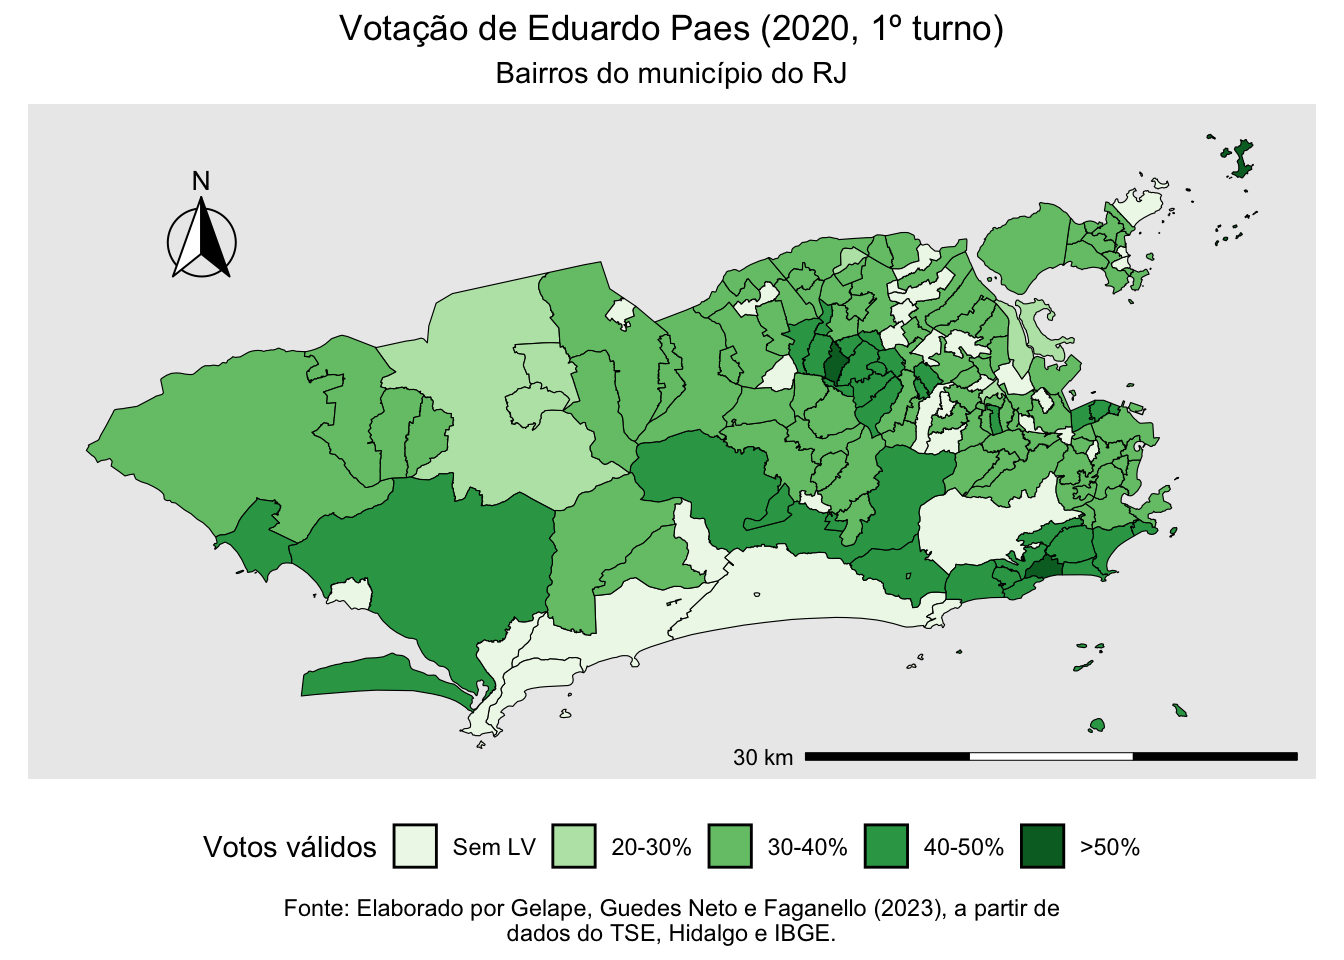
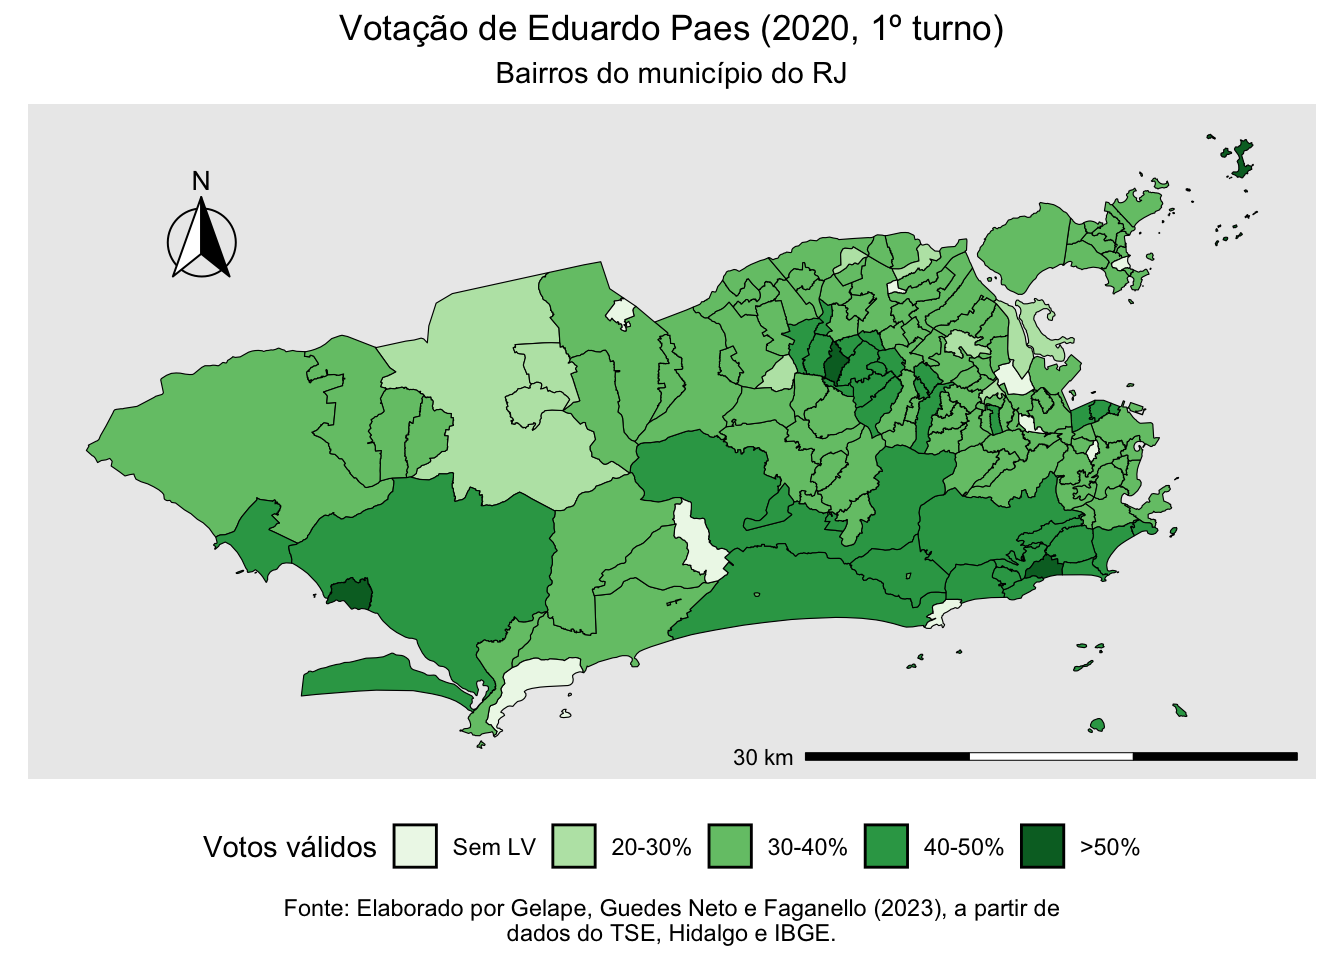
atualiza bookdown
Corrige erros em Eduardo Paes

diff --git a/docs/mapas-municipais.html b/docs/mapas-municipais.html
@@ -141,8 +141,9 @@ code span.wa { color: #60a0b0; font-weight: bold; font-style: italic; } /* Warni
 <li class="divider"></li>
 <li class="chapter" data-level="1" data-path="index.html"><a href="index.html"><i class="fa fa-check"></i><b>1</b> Sobre o Workshop</a>
 <ul>
-<li class="chapter" data-level="1.1" data-path="index.html"><a href="index.html#pré-requisitos"><i class="fa fa-check"></i><b>1.1</b> Pré-Requisitos</a></li>
-<li class="chapter" data-level="1.2" data-path="index.html"><a href="index.html#autores"><i class="fa fa-check"></i><b>1.2</b> Autores</a></li>
+<li class="chapter" data-level="1.1" data-path="index.html"><a href="index.html#informações-básicas"><i class="fa fa-check"></i><b>1.1</b> Informações básicas</a></li>
+<li class="chapter" data-level="1.2" data-path="index.html"><a href="index.html#pré-requisitos"><i class="fa fa-check"></i><b>1.2</b> Pré-Requisitos</a></li>
+<li class="chapter" data-level="1.3" data-path="index.html"><a href="index.html#autores"><i class="fa fa-check"></i><b>1.3</b> Autores</a></li>
 </ul></li>
 <li class="chapter" data-level="2" data-path="meu-primeiro-mapa.html"><a href="meu-primeiro-mapa.html"><i class="fa fa-check"></i><b>2</b> Meu Primeiro Mapa</a>
 <ul>
@@ -232,30 +233,30 @@ code span.wa { color: #60a0b0; font-weight: bold; font-style: italic; } /* Warni
 <p>Para se ter ideia de seu conteúdo, apresentamos sua <code>head</code> abaixo. São 28 colunas (variáveis) e 80.984 linhas (observações) contendo o número de votos que cada um dos três candidatos obteve na eleição de 2020, sendo Boulos para prefeito e os demais para vereador.</p>
 <div class="sourceCode" id="cb13"><pre class="sourceCode r"><code class="sourceCode r"><span id="cb13-1"><a href="mapas-municipais.html#cb13-1" aria-hidden="true" tabindex="-1"></a><span class="fu">head</span>(candsp2020)</span></code></pre></div>
 <pre><code>## # A tibble: 6 × 13
-##   dt_geracao ano_eleicao nr_turno sg_uf nm_municipio cd_municipio nr_zona nr_secao nr_local_votacao ds_cargo nm_votavel
-##   &lt;chr&gt;            &lt;dbl&gt;    &lt;dbl&gt; &lt;chr&gt; &lt;chr&gt;               &lt;dbl&gt;   &lt;dbl&gt;    &lt;dbl&gt;            &lt;dbl&gt; &lt;chr&gt;    &lt;chr&gt;     
-## 1 21/12/2020        2020        1 SP    SÃO PAULO           71072     408      242             1180 Vereador Suplicy   
-## 2 21/12/2020        2020        1 SP    SÃO PAULO           71072     346      408             1309 Vereador Milton Le…
-## 3 21/12/2020        2020        1 SP    SÃO PAULO           71072     346      408             1309 Vereador Holiday   
-## 4 21/12/2020        2020        1 SP    SÃO PAULO           71072     408      255             1198 Vereador Suplicy   
-## 5 21/12/2020        2020        1 SP    SÃO PAULO           71072     408      255             1198 Vereador Holiday   
-## 6 21/12/2020        2020        1 SP    SÃO PAULO           71072     408      255             1198 Prefeito Boulos    
+##   dt_geracao ano_eleicao nr_turno sg_uf nm_municipio cd_municipio nr_zona nr_secao nr_local_votacao ds_cargo nm_votavel  
+##   &lt;chr&gt;            &lt;dbl&gt;    &lt;dbl&gt; &lt;chr&gt; &lt;chr&gt;               &lt;dbl&gt;   &lt;dbl&gt;    &lt;dbl&gt;            &lt;dbl&gt; &lt;chr&gt;    &lt;chr&gt;       
+## 1 21/12/2020        2020        1 SP    SÃO PAULO           71072     408      242             1180 Vereador Suplicy     
+## 2 21/12/2020        2020        1 SP    SÃO PAULO           71072     346      408             1309 Vereador Milton Leite
+## 3 21/12/2020        2020        1 SP    SÃO PAULO           71072     346      408             1309 Vereador Holiday     
+## 4 21/12/2020        2020        1 SP    SÃO PAULO           71072     408      255             1198 Vereador Suplicy     
+## 5 21/12/2020        2020        1 SP    SÃO PAULO           71072     408      255             1198 Vereador Holiday     
+## 6 21/12/2020        2020        1 SP    SÃO PAULO           71072     408      255             1198 Prefeito Boulos      
 ## # ℹ 2 more variables: qt_votos &lt;dbl&gt;, votos_validos_secao &lt;dbl&gt;</code></pre>
 <p>Nosso próximo passo é carregar a base com dados geolocalizados de cada um dos locais de votação no município de São Paulo. Seu nome é <code>lvsp2020.rds</code>.</p>
 <div class="sourceCode" id="cb15"><pre class="sourceCode r"><code class="sourceCode r"><span id="cb15-1"><a href="mapas-municipais.html#cb15-1" aria-hidden="true" tabindex="-1"></a>lvsp2020 <span class="ot">&lt;-</span> <span class="fu">readRDS</span>(<span class="st">&quot;base/lvsp2020.rds&quot;</span>)</span></code></pre></div>
 <p>Ao abrir esta base de dados, você verá o endereço de cada local de votação (por ex., o Colégio Objetivo na Av. Paulista, 900, Bela Vista), acompanhado de sua longitude e latitude, além de outros dados espaciais. A base possui 2.063 observações e 19 variáveis.</p>
 <div class="sourceCode" id="cb16"><pre class="sourceCode r"><code class="sourceCode r"><span id="cb16-1"><a href="mapas-municipais.html#cb16-1" aria-hidden="true" tabindex="-1"></a><span class="fu">head</span>(lvsp2020)</span></code></pre></div>
 <pre><code>## # A tibble: 6 × 19
-##   local_id   ano sg_uf cd_localidade_tse cod_localidade_ibge nr_zona nr_locvot  nr_cep nm_localidade nm_locvot         
-##      &lt;dbl&gt; &lt;dbl&gt; &lt;chr&gt;             &lt;dbl&gt;               &lt;dbl&gt;   &lt;dbl&gt;     &lt;dbl&gt;   &lt;dbl&gt; &lt;chr&gt;         &lt;chr&gt;             
-## 1   678500  2020 SP                71072             3550308       1      1015 1310100 SÃO PAULO     COLÉGIO OBJETIVO  
-## 2   670114  2020 SP                71072             3550308       2      1015 5001000 SÃO PAULO     COLÉGIO DAS AMÉRI…
-## 3   688691  2020 SP                71072             3550308       4      1015 3103000 SÃO PAULO     EE. PROF. ANTONIO…
-## 4   694622  2020 SP                71072             3550308       5      1015 1427001 SÃO PAULO     CLUBE ATLÉTICO PA…
-## 5   696661  2020 SP                71072             3550308       6      1015 4117020 SÃO PAULO     EE. MARECHAL FLOR…
-## 6   674162  2020 SP                71072             3550308     246      1015 4754010 SÃO PAULO     EE. PROF. ALBERTO…
-## # ℹ 9 more variables: ds_endereco &lt;chr&gt;, ds_bairro &lt;chr&gt;, pred_long &lt;dbl&gt;, pred_lat &lt;dbl&gt;, pred_dist &lt;dbl&gt;,
-## #   tse_lat &lt;dbl&gt;, tse_long &lt;dbl&gt;, long &lt;dbl&gt;, lat &lt;dbl&gt;</code></pre>
+##   local_id   ano sg_uf cd_localidade_tse cod_localidade_ibge nr_zona nr_locvot nr_cep nm_localidade nm_locvot ds_endereco
+##      &lt;dbl&gt; &lt;dbl&gt; &lt;chr&gt;             &lt;dbl&gt;               &lt;dbl&gt;   &lt;dbl&gt;     &lt;dbl&gt;  &lt;dbl&gt; &lt;chr&gt;         &lt;chr&gt;     &lt;chr&gt;      
+## 1   678500  2020 SP                71072             3550308       1      1015 1.31e6 SÃO PAULO     COLÉGIO … AV. PAULIS…
+## 2   670114  2020 SP                71072             3550308       2      1015 5.00e6 SÃO PAULO     COLÉGIO … AV. FRANCI…
+## 3   688691  2020 SP                71072             3550308       4      1015 3.10e6 SÃO PAULO     EE. PROF… RUA DA MOÓ…
+## 4   694622  2020 SP                71072             3550308       5      1015 1.43e6 SÃO PAULO     CLUBE AT… RUA ESTADO…
+## 5   696661  2020 SP                71072             3550308       6      1015 4.12e6 SÃO PAULO     EE. MARE… RUA DONA J…
+## 6   674162  2020 SP                71072             3550308     246      1015 4.75e6 SÃO PAULO     EE. PROF… AVENIDA MÁ…
+## # ℹ 8 more variables: ds_bairro &lt;chr&gt;, pred_long &lt;dbl&gt;, pred_lat &lt;dbl&gt;, pred_dist &lt;dbl&gt;, tse_lat &lt;dbl&gt;, tse_long &lt;dbl&gt;,
+## #   long &lt;dbl&gt;, lat &lt;dbl&gt;</code></pre>
 <p>Nosso próximo passo será converter os dados de longitude (<em>long</em>) e latitude (<em>lat</em>) utilizando o pacote <code>sf</code> em um objeto de <em>features espaciais</em>. Isto é importante para compatibilizar a estrutura dos dados com os pacotes e mapas com os quais estamos trabalhando. Mais especificamente, a transformação tem por objetivo utilizar transformar esses dados tabulares em dados espaciais, produzidos com base no sistema de referência de coordenadas (CRS) geográficas SIRGAS 2000. Este passo é padrão para a elaboração da maioria dos mapas brasileiros.</p>
 <div class="sourceCode" id="cb18"><pre class="sourceCode r"><code class="sourceCode r"><span id="cb18-1"><a href="mapas-municipais.html#cb18-1" aria-hidden="true" tabindex="-1"></a>lvsp2020 <span class="ot">&lt;-</span> </span>
 <span id="cb18-2"><a href="mapas-municipais.html#cb18-2" aria-hidden="true" tabindex="-1"></a>  lvsp2020 <span class="sc">|&gt;</span> </span>

diff --git a/docs/atividades-extras.html b/docs/atividades-extras.html
@@ -141,8 +141,9 @@ code span.wa { color: #60a0b0; font-weight: bold; font-style: italic; } /* Warni
 <li class="divider"></li>
 <li class="chapter" data-level="1" data-path="index.html"><a href="index.html"><i class="fa fa-check"></i><b>1</b> Sobre o Workshop</a>
 <ul>
-<li class="chapter" data-level="1.1" data-path="index.html"><a href="index.html#pré-requisitos"><i class="fa fa-check"></i><b>1.1</b> Pré-Requisitos</a></li>
-<li class="chapter" data-level="1.2" data-path="index.html"><a href="index.html#autores"><i class="fa fa-check"></i><b>1.2</b> Autores</a></li>
+<li class="chapter" data-level="1.1" data-path="index.html"><a href="index.html#informações-básicas"><i class="fa fa-check"></i><b>1.1</b> Informações básicas</a></li>
+<li class="chapter" data-level="1.2" data-path="index.html"><a href="index.html#pré-requisitos"><i class="fa fa-check"></i><b>1.2</b> Pré-Requisitos</a></li>
+<li class="chapter" data-level="1.3" data-path="index.html"><a href="index.html#autores"><i class="fa fa-check"></i><b>1.3</b> Autores</a></li>
 </ul></li>
 <li class="chapter" data-level="2" data-path="meu-primeiro-mapa.html"><a href="meu-primeiro-mapa.html"><i class="fa fa-check"></i><b>2</b> Meu Primeiro Mapa</a>
 <ul>
@@ -386,15 +387,23 @@ code span.wa { color: #60a0b0; font-weight: bold; font-style: italic; } /* Warni
 <pre><code>##    Min. 1st Qu.  Median    Mean 3rd Qu.    Max. 
 ##   21.40   33.47   37.40   37.25   40.11   51.86</code></pre>
 <p>Nosso próximo passo será utilizar os mapas do pacote <code>geobr</code> (isto é, seu arquivo shp) para gerar um mapa de bairros mais “limpo” do que o que temos e integrar seus dados ao nosso <em>tibble</em> original.</p>
+<p>Os dados do <code>geobr</code> estão com uma duplicação de bairros. No caso, o mesmo bairro (Marechal Hermes) aparece em duas linhas do objeto espacial, sendo uma tendo como subdistrito Jacarepaguá e outra como Madureira. Para eliminar uma dessas linhas do banco (que duplicaria os votos nessa região ao fazermos o join), consultamos um <a href="https://www.data.rio/datasets/31d845e1c56a49c6a2b0e01420ec83b8">mapa oficial de bairros do município do Rio de Janeiro</a> e verificamos que Marechal Hermes está na Região Administrativa de Madureira, portanto vamos excluir do objeto a linha que se refere a Jacarepaguá.</p>
 <div class="sourceCode" id="cb59"><pre class="sourceCode r"><code class="sourceCode r"><span id="cb59-1"><a href="atividades-extras.html#cb59-1" aria-hidden="true" tabindex="-1"></a><span class="co"># Abre um shp de bairros mais &quot;limpo&quot;</span></span>
 <span id="cb59-2"><a href="atividades-extras.html#cb59-2" aria-hidden="true" tabindex="-1"></a>rj_bairros <span class="ot">&lt;-</span> <span class="fu">read_neighborhood</span>(<span class="at">showProgress =</span> F) <span class="sc">|&gt;</span> </span>
-<span id="cb59-3"><a href="atividades-extras.html#cb59-3" aria-hidden="true" tabindex="-1"></a>  <span class="fu">filter</span>(name_muni <span class="sc">==</span> <span class="st">&quot;Rio De Janeiro&quot;</span>)</span>
-<span id="cb59-4"><a href="atividades-extras.html#cb59-4" aria-hidden="true" tabindex="-1"></a></span>
-<span id="cb59-5"><a href="atividades-extras.html#cb59-5" aria-hidden="true" tabindex="-1"></a><span class="co"># Passa a info de votos pro shp</span></span>
-<span id="cb59-6"><a href="atividades-extras.html#cb59-6" aria-hidden="true" tabindex="-1"></a>rj_bairros_paes <span class="ot">&lt;-</span> rj_bairros <span class="sc">|&gt;</span> </span>
-<span id="cb59-7"><a href="atividades-extras.html#cb59-7" aria-hidden="true" tabindex="-1"></a>  <span class="fu">left_join</span>(paes2020_bairro, </span>
-<span id="cb59-8"><a href="atividades-extras.html#cb59-8" aria-hidden="true" tabindex="-1"></a>            <span class="at">by =</span> <span class="fu">c</span>(<span class="st">&quot;name_neighborhood&quot;</span> <span class="ot">=</span> <span class="st">&quot;NM_BAIRRO&quot;</span>,</span>
-<span id="cb59-9"><a href="atividades-extras.html#cb59-9" aria-hidden="true" tabindex="-1"></a>                   <span class="st">&quot;code_neighborhood&quot;</span> <span class="ot">=</span> <span class="st">&quot;CD_GEOCODB&quot;</span>))</span></code></pre></div>
+<span id="cb59-3"><a href="atividades-extras.html#cb59-3" aria-hidden="true" tabindex="-1"></a>  <span class="co"># Filtra somente o municipio do RJ</span></span>
+<span id="cb59-4"><a href="atividades-extras.html#cb59-4" aria-hidden="true" tabindex="-1"></a>  <span class="fu">filter</span>(name_muni <span class="sc">==</span> <span class="st">&quot;Rio De Janeiro&quot;</span>) <span class="sc">|&gt;</span> </span>
+<span id="cb59-5"><a href="atividades-extras.html#cb59-5" aria-hidden="true" tabindex="-1"></a>  <span class="co"># Cria coluna para identificar qual linha deve ser removida e a remove</span></span>
+<span id="cb59-6"><a href="atividades-extras.html#cb59-6" aria-hidden="true" tabindex="-1"></a>  <span class="fu">mutate</span>(<span class="at">remover =</span> <span class="fu">ifelse</span>(name_neighborhood <span class="sc">==</span> <span class="st">&quot;Marechal Hermes&quot;</span> <span class="sc">&amp;</span> </span>
+<span id="cb59-7"><a href="atividades-extras.html#cb59-7" aria-hidden="true" tabindex="-1"></a>                            name_subdistrict <span class="sc">==</span> <span class="st">&quot;Jacarepaguá&quot;</span>, T, F)) <span class="sc">|&gt;</span> </span>
+<span id="cb59-8"><a href="atividades-extras.html#cb59-8" aria-hidden="true" tabindex="-1"></a>  <span class="fu">filter</span>(<span class="sc">!</span>remover)</span>
+<span id="cb59-9"><a href="atividades-extras.html#cb59-9" aria-hidden="true" tabindex="-1"></a></span>
+<span id="cb59-10"><a href="atividades-extras.html#cb59-10" aria-hidden="true" tabindex="-1"></a><span class="co"># Passa a info de votos pro shp</span></span>
+<span id="cb59-11"><a href="atividades-extras.html#cb59-11" aria-hidden="true" tabindex="-1"></a>rj_bairros_paes <span class="ot">&lt;-</span> rj_bairros <span class="sc">|&gt;</span> </span>
+<span id="cb59-12"><a href="atividades-extras.html#cb59-12" aria-hidden="true" tabindex="-1"></a>  <span class="co"># Faremos o join somente por codigo do bairro, pois caso o fizessemos com o</span></span>
+<span id="cb59-13"><a href="atividades-extras.html#cb59-13" aria-hidden="true" tabindex="-1"></a>  <span class="co"># nome do bairro, teriamos alguns casos sem combinacao exata, e produziriamos</span></span>
+<span id="cb59-14"><a href="atividades-extras.html#cb59-14" aria-hidden="true" tabindex="-1"></a>  <span class="co"># falsos negativos (NA que nao sao NA na prática)</span></span>
+<span id="cb59-15"><a href="atividades-extras.html#cb59-15" aria-hidden="true" tabindex="-1"></a>  <span class="fu">left_join</span>(paes2020_bairro, </span>
+<span id="cb59-16"><a href="atividades-extras.html#cb59-16" aria-hidden="true" tabindex="-1"></a>            <span class="at">by =</span> <span class="fu">c</span>(<span class="st">&quot;code_neighborhood&quot;</span> <span class="ot">=</span> <span class="st">&quot;CD_GEOCODB&quot;</span>))</span></code></pre></div>
 <p>Por fim, utilizamos estas informações para gerar o mapa com uma escala de percentuais que varia de 10 em 10 p.p. como apresentado abaixo na sequência do comando <em>mutate</em>. Note também que as funções do <em>ggplot</em> estão comentadas para te auxiliar na customização dos mapas.</p>
 <div class="sourceCode" id="cb60"><pre class="sourceCode r"><code class="sourceCode r"><span id="cb60-1"><a href="atividades-extras.html#cb60-1" aria-hidden="true" tabindex="-1"></a><span class="co"># A partir do objeto espacial</span></span>
 <span id="cb60-2"><a href="atividades-extras.html#cb60-2" aria-hidden="true" tabindex="-1"></a>rj_bairros_paes  <span class="sc">|&gt;</span> </span>

diff --git a/docs/index.html b/docs/index.html
@@ -53,6 +53,70 @@
 <script src="libs/anchor-sections-1.1.0/anchor-sections.js"></script>
 
 
+<style type="text/css">
+pre > code.sourceCode { white-space: pre; position: relative; }
+pre > code.sourceCode > span { display: inline-block; line-height: 1.25; }
+pre > code.sourceCode > span:empty { height: 1.2em; }
+.sourceCode { overflow: visible; }
+code.sourceCode > span { color: inherit; text-decoration: inherit; }
+pre.sourceCode { margin: 0; }
+@media screen {
+div.sourceCode { overflow: auto; }
+}
+@media print {
+pre > code.sourceCode { white-space: pre-wrap; }
+pre > code.sourceCode > span { text-indent: -5em; padding-left: 5em; }
+}
+pre.numberSource code
+  { counter-reset: source-line 0; }
+pre.numberSource code > span
+  { position: relative; left: -4em; counter-increment: source-line; }
+pre.numberSource code > span > a:first-child::before
+  { content: counter(source-line);
+    position: relative; left: -1em; text-align: right; vertical-align: baseline;
+    border: none; display: inline-block;
+    -webkit-touch-callout: none; -webkit-user-select: none;
+    -khtml-user-select: none; -moz-user-select: none;
+    -ms-user-select: none; user-select: none;
+    padding: 0 4px; width: 4em;
+    color: #aaaaaa;
+  }
+pre.numberSource { margin-left: 3em; border-left: 1px solid #aaaaaa;  padding-left: 4px; }
+div.sourceCode
+  {   }
+@media screen {
+pre > code.sourceCode > span > a:first-child::before { text-decoration: underline; }
+}
+code span.al { color: #ff0000; font-weight: bold; } /* Alert */
+code span.an { color: #60a0b0; font-weight: bold; font-style: italic; } /* Annotation */
+code span.at { color: #7d9029; } /* Attribute */
+code span.bn { color: #40a070; } /* BaseN */
+code span.bu { color: #008000; } /* BuiltIn */
+code span.cf { color: #007020; font-weight: bold; } /* ControlFlow */
+code span.ch { color: #4070a0; } /* Char */
+code span.cn { color: #880000; } /* Constant */
+code span.co { color: #60a0b0; font-style: italic; } /* Comment */
+code span.cv { color: #60a0b0; font-weight: bold; font-style: italic; } /* CommentVar */
+code span.do { color: #ba2121; font-style: italic; } /* Documentation */
+code span.dt { color: #902000; } /* DataType */
+code span.dv { color: #40a070; } /* DecVal */
+code span.er { color: #ff0000; font-weight: bold; } /* Error */
+code span.ex { } /* Extension */
+code span.fl { color: #40a070; } /* Float */
+code span.fu { color: #06287e; } /* Function */
+code span.im { color: #008000; font-weight: bold; } /* Import */
+code span.in { color: #60a0b0; font-weight: bold; font-style: italic; } /* Information */
+code span.kw { color: #007020; font-weight: bold; } /* Keyword */
+code span.op { color: #666666; } /* Operator */
+code span.ot { color: #007020; } /* Other */
+code span.pp { color: #bc7a00; } /* Preprocessor */
+code span.sc { color: #4070a0; } /* SpecialChar */
+code span.ss { color: #bb6688; } /* SpecialString */
+code span.st { color: #4070a0; } /* String */
+code span.va { color: #19177c; } /* Variable */
+code span.vs { color: #4070a0; } /* VerbatimString */
+code span.wa { color: #60a0b0; font-weight: bold; font-style: italic; } /* Warning */
+</style>
 
 <style type="text/css">
   

diff --git a/docs/apêndice.html b/docs/apêndice.html
@@ -141,8 +141,9 @@ code span.wa { color: #60a0b0; font-weight: bold; font-style: italic; } /* Warni
 <li class="divider"></li>
 <li class="chapter" data-level="1" data-path="index.html"><a href="index.html"><i class="fa fa-check"></i><b>1</b> Sobre o Workshop</a>
 <ul>
-<li class="chapter" data-level="1.1" data-path="index.html"><a href="index.html#pré-requisitos"><i class="fa fa-check"></i><b>1.1</b> Pré-Requisitos</a></li>
-<li class="chapter" data-level="1.2" data-path="index.html"><a href="index.html#autores"><i class="fa fa-check"></i><b>1.2</b> Autores</a></li>
+<li class="chapter" data-level="1.1" data-path="index.html"><a href="index.html#informações-básicas"><i class="fa fa-check"></i><b>1.1</b> Informações básicas</a></li>
+<li class="chapter" data-level="1.2" data-path="index.html"><a href="index.html#pré-requisitos"><i class="fa fa-check"></i><b>1.2</b> Pré-Requisitos</a></li>
+<li class="chapter" data-level="1.3" data-path="index.html"><a href="index.html#autores"><i class="fa fa-check"></i><b>1.3</b> Autores</a></li>
 </ul></li>
 <li class="chapter" data-level="2" data-path="meu-primeiro-mapa.html"><a href="meu-primeiro-mapa.html"><i class="fa fa-check"></i><b>2</b> Meu Primeiro Mapa</a>
 <ul>

diff --git a/docs/meu-primeiro-mapa.html b/docs/meu-primeiro-mapa.html
@@ -141,8 +141,9 @@ code span.wa { color: #60a0b0; font-weight: bold; font-style: italic; } /* Warni
 <li class="divider"></li>
 <li class="chapter" data-level="1" data-path="index.html"><a href="index.html"><i class="fa fa-check"></i><b>1</b> Sobre o Workshop</a>
 <ul>
-<li class="chapter" data-level="1.1" data-path="index.html"><a href="index.html#pré-requisitos"><i class="fa fa-check"></i><b>1.1</b> Pré-Requisitos</a></li>
-<li class="chapter" data-level="1.2" data-path="index.html"><a href="index.html#autores"><i class="fa fa-check"></i><b>1.2</b> Autores</a></li>
+<li class="chapter" data-level="1.1" data-path="index.html"><a href="index.html#informações-básicas"><i class="fa fa-check"></i><b>1.1</b> Informações básicas</a></li>
+<li class="chapter" data-level="1.2" data-path="index.html"><a href="index.html#pré-requisitos"><i class="fa fa-check"></i><b>1.2</b> Pré-Requisitos</a></li>
+<li class="chapter" data-level="1.3" data-path="index.html"><a href="index.html#autores"><i class="fa fa-check"></i><b>1.3</b> Autores</a></li>
 </ul></li>
 <li class="chapter" data-level="2" data-path="meu-primeiro-mapa.html"><a href="meu-primeiro-mapa.html"><i class="fa fa-check"></i><b>2</b> Meu Primeiro Mapa</a>
 <ul>
